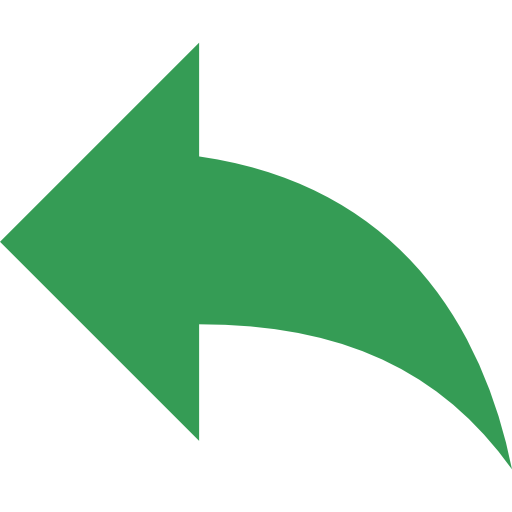
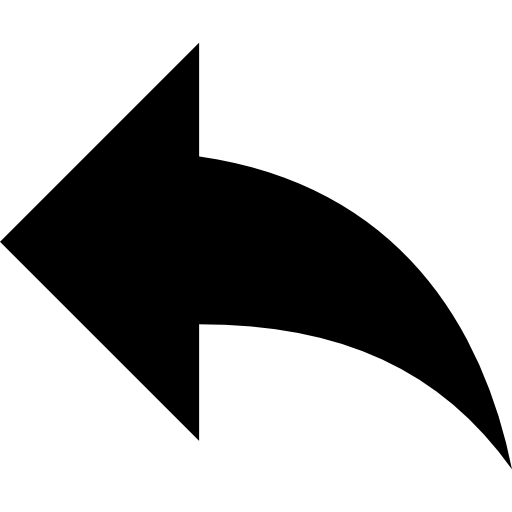
update image colour functionality

Changed region(s): [[0.0, 0.0938, 1.0, 0.9062]]

diff --git a/ShoppIt/src/main/controllers/MainController.java b/ShoppIt/src/main/controllers/MainController.java
@@ -18,6 +18,8 @@ import javafx.fxml.Initializable;
 import javafx.scene.Scene;
 import javafx.scene.control.Button;
 import javafx.scene.control.ListView;
+import javafx.scene.image.Image;
+import javafx.scene.image.ImageView;
 
 public class MainController implements Initializable {
 
@@ -26,6 +28,9 @@ public class MainController implements Initializable {
 
     @FXML
     private Button AddListButton;
+
+    @FXML
+    private ImageView titleText;
 
     InfoStore store = InfoStore.getInstance();
     //List<List<Item>> lists = new LinkedList<>();
@@ -61,14 +66,23 @@ public class MainController implements Initializable {
 
     public void changeTheme(ActionEvent e) {
         Scene scene = AddListButton.getScene();
+        int newTheme;
         if (scene.getStylesheets().contains("/css/theme2.css")){
             scene.getStylesheets().remove("/css/theme2.css");
             scene.getStylesheets().add("/css/theme1.css");
+            newTheme = 1;
         } else {
             scene.getStylesheets().remove("/css/theme1.css");
             scene.getStylesheets().add("/css/theme2.css");
+            newTheme = 2;
         }
 
+        updateImageColours(newTheme);
+
+    }
+
+    public void updateImageColours(int themeNum) {
+        titleText.setImage(new Image("./images/name_" + themeNum + ".png"));
     }
 
 }
